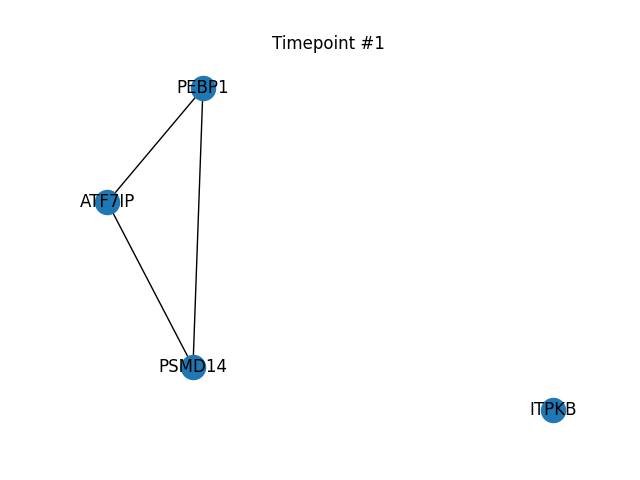
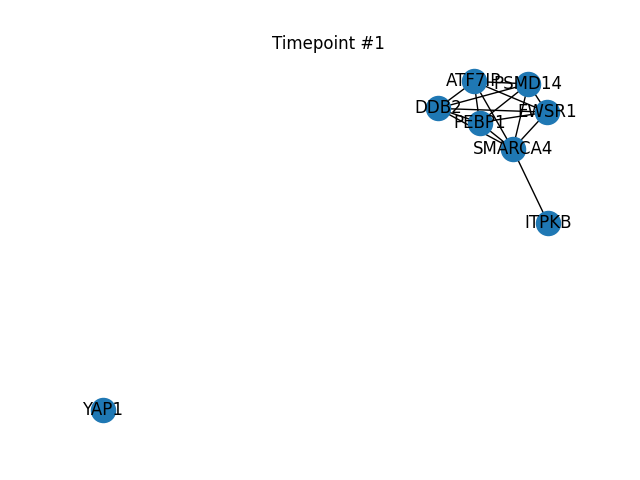
updated both testing code and results

diff --git a/test.py b/test.py
@@ -13,7 +13,7 @@ from corte import CORTE
 
 WORKSPACE = os.path.dirname(os.path.realpath(__file__)) + "/"
 
-genes_of_interest = ['PSMD14', 'PEBP1', 'ITPKB', 'ATF7IP'] # + ['CCDC92','CCDC74B','ARL14EPL','CCDC74A','ARL14EP','ZNF883','MINPP1','ITPKC','ITPKA','ITPKB','IPMK']
+genes_of_interest = ['EWSR1','SMARCA4','DDB2','YAP1','PSMD14','PEBP1','ITPKB','ATF7IP']
 tissues_of_interest = ['Brain_Amygdala','Brain_Anterior_cingulate_cortex_BA24','Brain_Caudate_basal_ganglia','Brain_Cerebellar_Hemisphere','Brain_Cerebellum','Brain_Cortex','Brain_Frontal_Cortex_BA9','Brain_Hippocampus','Brain_Hypothalamus','Brain_Nucleus_accumbens_basal_ganglia','Brain_Putamen_basal_ganglia','Brain_Spinal_cord_cervical_c-1','Brain_Substantia_nigra']
 
 print("################################################")
